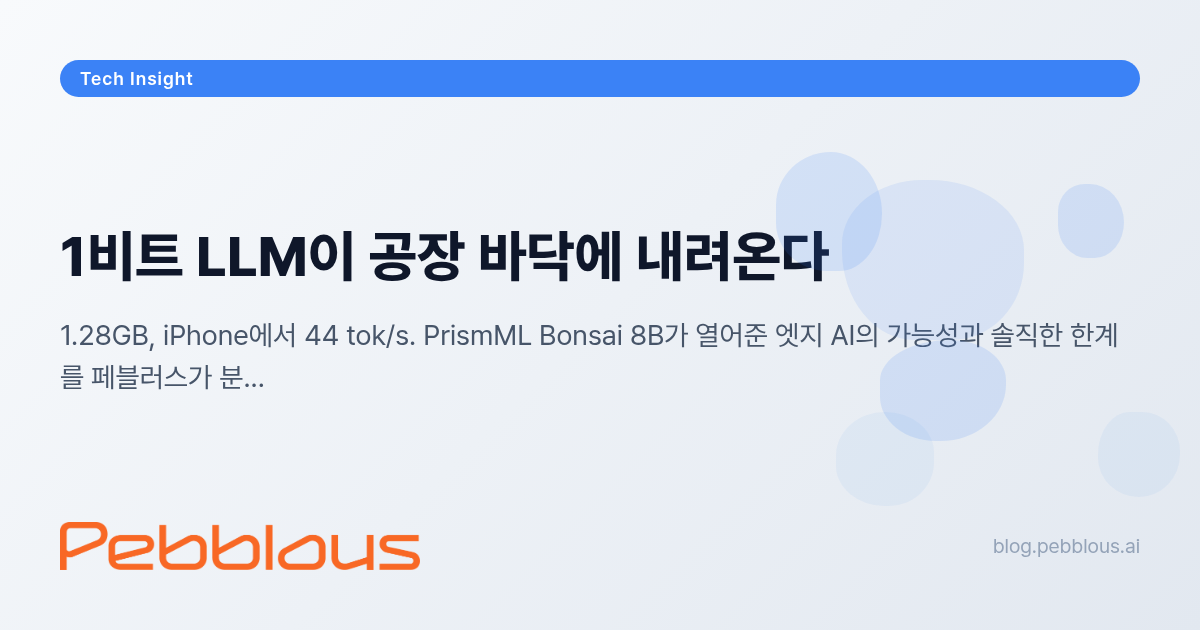
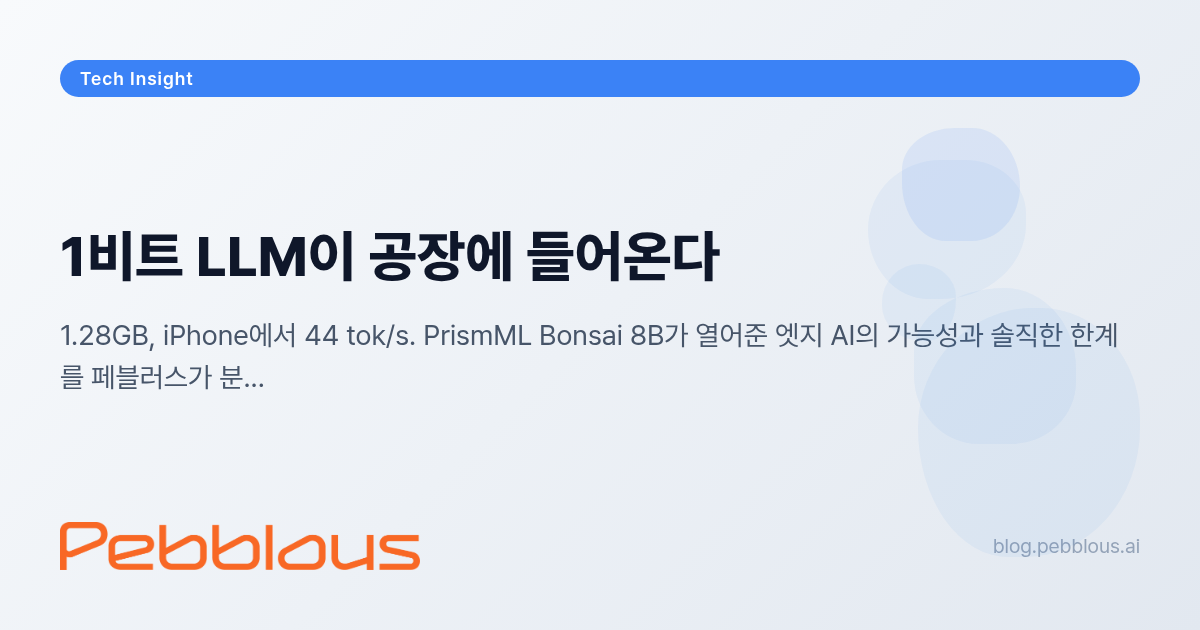
fix(bonsai): 제목 수정 — '공장 바닥에 내려온다' → '공장에 들어온다'
OG 이미지 재생성, articles.json 제목 동기화

Changed region(s): [[0.37, 0.2413, 0.9558, 0.4524], [0.7092, 0.5429, 0.7708, 0.6937]]

diff --git a/blog/bonsai-1bit-llm/ko/index.html b/blog/bonsai-1bit-llm/ko/index.html
@@ -4,7 +4,7 @@
 <head>
     <meta charset="UTF-8">
     <meta name="viewport" content="width=device-width, initial-scale=1.0">
-    <title>1비트 LLM이 공장 바닥에 내려온다 — Bonsai 8B 심층 분석 | 페블러스</title>
+    <title>1비트 LLM이 공장에 들어온다 — Bonsai 8B 심층 분석 | 페블러스</title>
     <meta name="author" content="(주)페블러스 데이터 커뮤니케이션팀">
     <meta name="language" content="Korean">
     <meta http-equiv="content-language" content="ko">
@@ -14,7 +14,7 @@
     <meta name="revisit-after" content="7 days">
     <meta name="distribution" content="global">
 
-    <meta name="description" content="PrismML의 Bonsai 8B는 1.28GB — 스마트폰에서 44 tok/s로 돌아가는 첫 상업용 1비트 LLM입니다. BitNet b1.58과의 차이, 9점 정확도 갭의 실체, 공장 바닥·스마트팜 엣지 배포 가능성까지 페블러스가 심층 분석합니다.">
+    <meta name="description" content="PrismML의 Bonsai 8B는 1.28GB — 스마트폰에서 44 tok/s로 돌아가는 첫 상업용 1비트 LLM입니다. BitNet b1.58과의 차이, 9점 정확도 갭의 실체, 공장·스마트팜 엣지 배포 가능성까지 페블러스가 심층 분석합니다.">
     <meta name="keywords" content="1비트 LLM, Bonsai 8B, PrismML, 엣지 AI, BitNet, 온디바이스 AI, 경량화, 공장 AI, 스마트팜, 페블러스, AADS, 합성데이터, 데이터 품질">
 
     <link rel="canonical" href="https://blog.pebblous.ai/blog/bonsai-1bit-llm/ko/">
@@ -22,25 +22,25 @@
     <link rel="alternate" hreflang="x-default" href="https://blog.pebblous.ai/blog/bonsai-1bit-llm/ko/">
 
     <!-- Open Graph -->
-    <meta name="og-image-title" content="1비트 LLM이 공장 바닥에 내려온다">
-    <meta property="og:title" content="1비트 LLM이 공장 바닥에 내려온다 — Bonsai 8B 심층 분석">
+    <meta name="og-image-title" content="1비트 LLM이 공장에 들어온다">
+    <meta property="og:title" content="1비트 LLM이 공장에 들어온다 — Bonsai 8B 심층 분석">
     <meta property="og:description" content="1.28GB, iPhone에서 44 tok/s. PrismML Bonsai 8B가 열어준 엣지 AI의 가능성과 솔직한 한계를 페블러스가 분석합니다.">
     <meta property="og:type" content="article">
     <meta property="og:url" content="https://blog.pebblous.ai/blog/bonsai-1bit-llm/ko/">
     <meta property="og:image" content="https://blog.pebblous.ai/blog/bonsai-1bit-llm/ko/image/index.png">
     <meta property="og:image:width" content="1200">
     <meta property="og:image:height" content="630">
-    <meta property="og:image:alt" content="1비트 LLM이 공장 바닥에 내려온다 — Bonsai 8B 심층 분석">
+    <meta property="og:image:alt" content="1비트 LLM이 공장에 들어온다 — Bonsai 8B 심층 분석">
     <meta property="og:site_name" content="페블러스 블로그">
     <meta property="og:locale" content="ko_KR">
     <meta property="article:published_time" content="2026-04-01">
 
     <!-- Twitter Card -->
     <meta name="twitter:card" content="summary_large_image">
-    <meta name="twitter:title" content="1비트 LLM이 공장 바닥에 내려온다 — Bonsai 8B 분석">
+    <meta name="twitter:title" content="1비트 LLM이 공장에 들어온다 — Bonsai 8B 분석">
     <meta name="twitter:description" content="1.28GB, iPhone에서 44 tok/s. 최초의 상업용 1비트 LLM Bonsai 8B의 가능성과 한계.">
     <meta name="twitter:image" content="https://blog.pebblous.ai/blog/bonsai-1bit-llm/ko/image/index.png">
-    <meta name="twitter:image:alt" content="1비트 LLM이 공장 바닥에 내려온다 — Bonsai 8B 심층 분석">
+    <meta name="twitter:image:alt" content="1비트 LLM이 공장에 들어온다 — Bonsai 8B 심층 분석">
     <meta name="twitter:site" content="@pebblous">
     <meta name="twitter:creator" content="@pebblous">
 
@@ -61,7 +61,7 @@
     {
         "@context": "https://schema.org",
         "@type": "TechArticle",
-        "headline": "1비트 LLM이 공장 바닥에 내려온다 — Bonsai 8B가 열어준 엣지 AI의 가능성",
+        "headline": "1비트 LLM이 공장에 들어온다 — Bonsai 8B가 열어준 엣지 AI의 가능성",
         "description": "PrismML의 Bonsai 8B는 1.28GB — 스마트폰에서 44 tok/s로 동작하는 최초의 상업용 1비트 LLM입니다. BitNet b1.58과의 기술적 차이, 9점 정확도 갭의 실체, 공장·스마트팜 엣지 배포 시나리오를 페블러스가 심층 분석합니다.",
         "url": "https://blog.pebblous.ai/blog/bonsai-1bit-llm/ko/",
         "datePublished": "2026-04-01",
@@ -629,9 +629,9 @@
     <script src="/scripts/common-utils.js?v=20260330"></script>
     <script>
         PebblousPage.init({
-            mainTitle: "1비트 LLM이 공장 바닥에 내려온다",
+            mainTitle: "1비트 LLM이 공장에 들어온다",
             subtitle: "Bonsai 8B가 열어준 엣지 AI의 가능성, 그리고 솔직한 현주소",
-            pageTitle: "1비트 LLM이 공장 바닥에 내려온다 — Bonsai 8B 심층 분석 | 페블러스",
+            pageTitle: "1비트 LLM이 공장에 들어온다 — Bonsai 8B 심층 분석 | 페블러스",
             category: "tech",
             publishDate: "2026-04-01",
             publisher: "(주)페블러스 데이터 커뮤니케이션팀",
